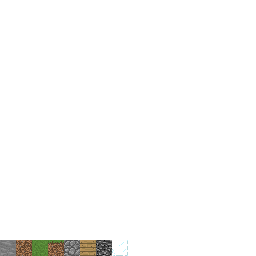
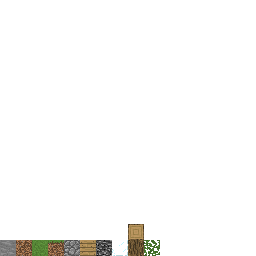
Add logs, Leaves Add organic sounds for leaves & grass Add glass sounds

Changed region(s): [[0.5, 0.875, 0.625, 1.0]]

diff --git a/src/sound/soundmanager.cpp b/src/sound/soundmanager.cpp
@@ -58,12 +58,20 @@ void Sound::Play(Vector src, float pitch, float gain)
 
 SoundManager::SoundManager()
 {
-	namedSounds["breakStone"] = LoadSound("sound/breakstone.ogg");
-	namedSounds["breakWood"] = LoadSound("sound/breakwood.ogg");
-	namedSounds["breakLoose"] = LoadSound("sound/breakloose.ogg");
 	namedSounds["placeStone"] = LoadSound("sound/placestone.ogg");
+	namedSounds["breakStone"] = LoadSound("sound/breakstone.ogg");
+
 	namedSounds["placeWood"] = LoadSound("sound/placewood.ogg");
+	namedSounds["breakWood"] = LoadSound("sound/breakwood.ogg");
+
 	namedSounds["placeLoose"] = LoadSound("sound/placeloose.ogg");
+	namedSounds["breakLoose"] = LoadSound("sound/breakloose.ogg");
+
+	namedSounds["placeGlass"] = namedSounds["placeStone"];
+	namedSounds["breakGlass"] = LoadSound("sound/breakglass.ogg");
+	
+	namedSounds["placeOrganic"] = LoadSound("sound/placeorganic.ogg");
+	namedSounds["breakOrganic"] = LoadSound("sound/breakorganic.ogg");
 }
 SoundManager::~SoundManager()
 {
@@ -83,7 +91,7 @@ Sound *SoundManager::LoadSound(const char* path)
 void SoundManager::PlayBreakSound(blocktype_t blockType, Vector pos)
 {
 	blockmaterial_t mat = GetBlockMaterial(blockType);
-	float pitch = 0.2 + (random() % 20) / 10.0f;
+	float pitch = 0.5 + (random() % 15) / 10.0f;
 
 	switch (mat)
 	{
@@ -96,12 +104,18 @@ void SoundManager::PlayBreakSound(blocktype_t blockType, Vector pos)
 		case MAT_LOOSE:
 			namedSounds["breakLoose"]->Play(pos, pitch, 1.0f);
 		break;
+		case MAT_GLASS:
+			namedSounds["breakGlass"]->Play(pos, pitch, 1.0f);
+		break;
+		case MAT_ORGANIC:
+			namedSounds["breakOrganic"]->Play(pos, pitch, 1.0f);
+		break;
 	}
 }
 void SoundManager::PlayPlaceSound(blocktype_t blockType, Vector pos)
 {
 	blockmaterial_t mat = GetBlockMaterial(blockType);
-	float pitch = 0.2 + (random() % 30) / 10.0f;
+	float pitch = 0.5 + (random() % 15) / 10.0f;
 
 	switch (mat)
 	{
@@ -113,6 +127,12 @@ void SoundManager::PlayPlaceSound(blocktype_t blockType, Vector pos)
 		break;
 		case MAT_LOOSE:
 			namedSounds["placeLoose"]->Play(pos, pitch, 1.0f);
+		break;
+		case MAT_GLASS:
+			namedSounds["placeGlass"]->Play(pos, pitch, 1.0f);
+		break;
+		case MAT_ORGANIC:
+			namedSounds["placeOrganic"]->Play(pos, pitch, 1.0f);
 		break;
 	}
 }

diff --git a/src/player.cpp b/src/player.cpp
@@ -86,7 +86,7 @@ void Player::Update(ChunkManager *chunkMan, SoundManager *soundMan)
 		selectedBlockType = blocktype_t(selectedBlockType + 1);
 		if (selectedBlockType == blocktype_t::BEDROCK)
 			selectedBlockType = blocktype_t(selectedBlockType + 1);
-		if (selectedBlockType > blocktype_t::GLASS)
+		if (selectedBlockType > blocktype_t::LEAVES)
 			selectedBlockType = blocktype_t::STONE;
 	}
 	else if (inputMan->mouseState & IN_WHEEL_DOWN)
@@ -95,7 +95,7 @@ void Player::Update(ChunkManager *chunkMan, SoundManager *soundMan)
 		if (selectedBlockType == blocktype_t::BEDROCK)
 			selectedBlockType = blocktype_t(selectedBlockType - 1);
 		if (selectedBlockType <= blocktype_t::AIR)
-			selectedBlockType = blocktype_t::GLASS;
+			selectedBlockType = blocktype_t::LEAVES;
 	}
 
 	camera.pos = pos + Vector(0,1,0);

diff --git a/src/world/blockdef.cpp b/src/world/blockdef.cpp
@@ -12,12 +12,20 @@ blockmaterial_t GetBlockMaterial(blocktype_t blockType)
 		break;
 
 		case DIRT:
-		case GRASS:
 			return blockmaterial_t::MAT_LOOSE;
 		break;
 
 		case PLANKS:
 			return blockmaterial_t::MAT_WOOD;
+		break;
+
+		case GLASS:
+			return blockmaterial_t::MAT_GLASS;
+		break;
+
+		case GRASS:
+		case LEAVES:
+			return blockmaterial_t::MAT_ORGANIC;
 		break;
 	}
 }
@@ -40,6 +48,7 @@ BlockFeatures GetBlockFeatures(blocktype_t blockType)
 		break;
 
 		case GLASS:
+		case LEAVES:
 			bF.solid = false;
 		break;
 		

diff --git a/src/rendering/blocktexture.cpp b/src/rendering/blocktexture.cpp
@@ -40,5 +40,15 @@ BlockTexture GetDefaultBlockTextureSide(blocktype_t type, Direction side)
 		case GLASS:
 			return {7,0, 1,1};
 		break;
+		case LOG:
+			if (side == Direction::UP || side == Direction::DOWN)
+			{
+				return {8,1, 1,1};
+			}
+			return {8,0, 1,1};
+		break;
+		case LEAVES:
+			return {9,0, 1,1};
+		break;
 	}
 }

diff --git a/src/world/blockdef.h b/src/world/blockdef.h
@@ -13,6 +13,8 @@ enum blocktype_t {
 	PLANKS   = 5,
 	BEDROCK  = 6,
 	GLASS    = 7,
+	LOG      = 8,
+	LEAVES   = 9,
 };
 
 enum blockmaterial_t {
@@ -21,6 +23,7 @@ enum blockmaterial_t {
 	MAT_LOOSE    = 2,
 	MAT_WOOD     = 3,
 	MAT_GLASS    = 4,
+	MAT_ORGANIC  = 5,
 };
 
 blockmaterial_t GetBlockMaterial(blocktype_t blockType);
